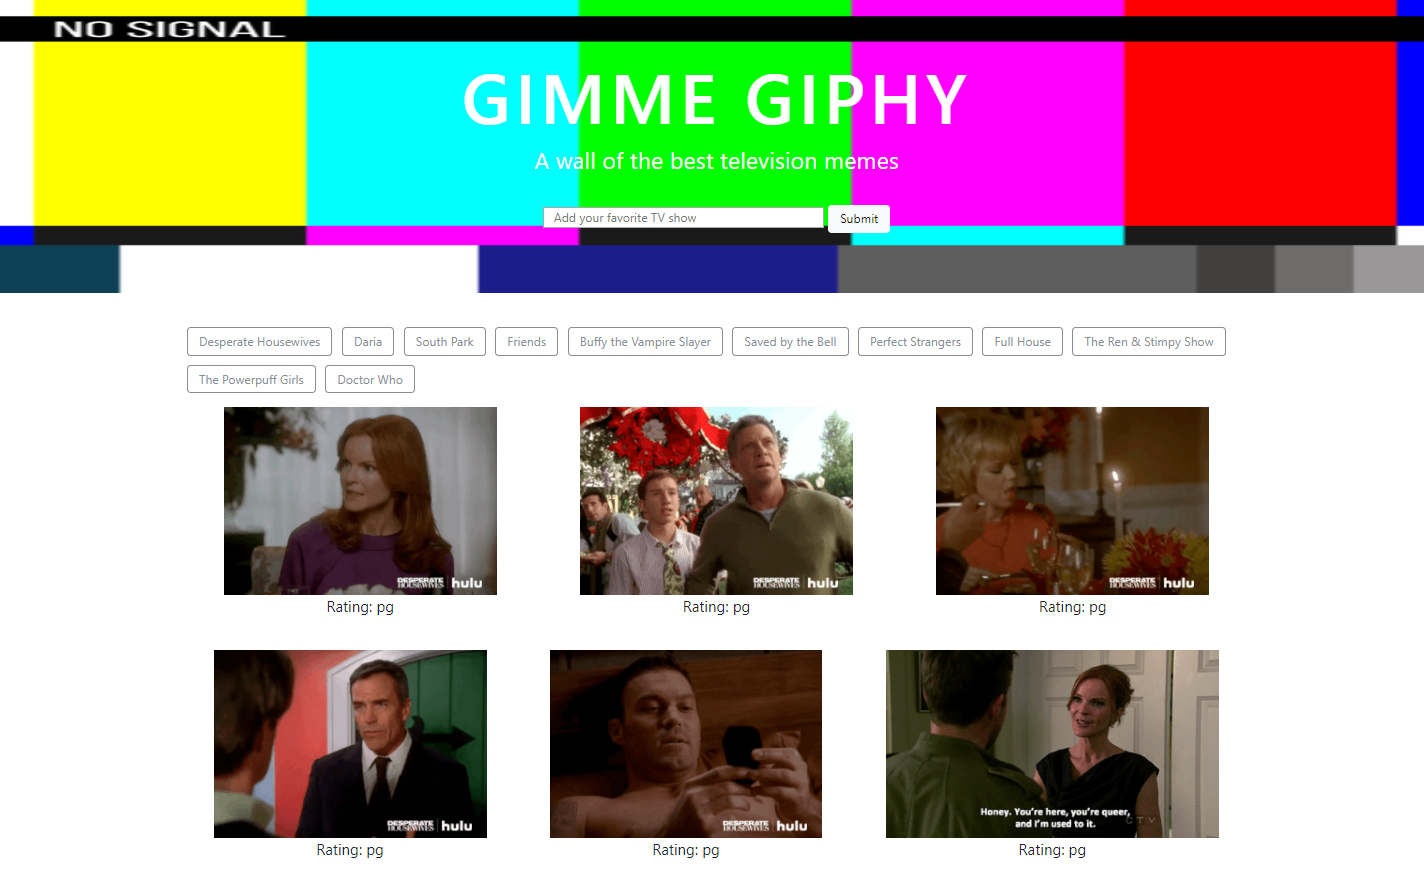
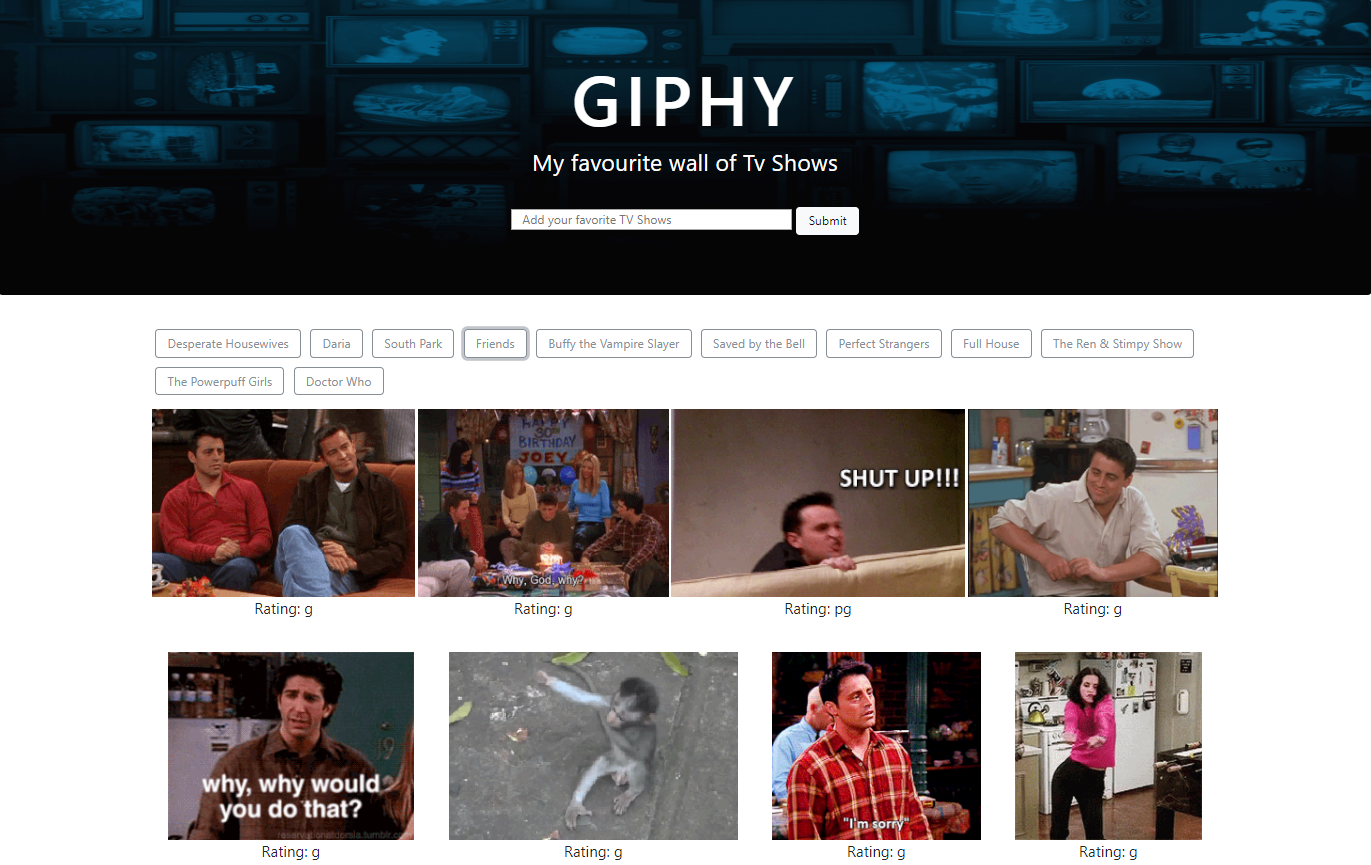
updated HTML

diff --git a/assets/javascript/app.js b/assets/javascript/app.js
@@ -3,7 +3,7 @@ var tvShows = ["Desperate Housewives", "Daria", "South Park", "Friends", "Buffy 
 
 // function for displaying movie data, then deleting the movies-(6.2-WorkingMovieApp)
 function buttons() {
-	$("#buttonsArea").empty();
+	$(".buttonsArea").empty();
 
 // Looping through the array of tvShows-(6.2-WorkingMovieApp)
 for (var i = 0; i < tvShows.length; i++) {
@@ -12,7 +12,7 @@ for (var i = 0; i < tvShows.length; i++) {
 	button.addClass("btn btn-outline-secondary");
 	button.attr("id", "tv-btn");
 	button.attr("tv-title", tvShows[i]);
-	$("#buttonsArea").append(button);
+	$(".buttonsArea").append(button);
 	}
 }
 
@@ -53,11 +53,12 @@ function displayGifs() {
 	gifImage.attr("data-state", "still");
 
 	// Appending the line and animation to the gifDiv
-	gifDiv.append(p);
 	gifDiv.append(gifImage);
+	gifDiv.append(p);
+	
 
 	// Prepending the gifDiv to HTML
-	$("#mainArea").prepend(gifDiv);
+	$(".mainArea").prepend(gifDiv);
 		}
 	});
 	}

diff --git a/index.html b/index.html
@@ -15,15 +15,15 @@
 		<h1 class="text-center">GIPHY</h1>
 		<p class="header-text text-center">My favourite wall of Tv Shows</p>
 		<form class="tv-input text-center">
-			<input type="text" id="userInput" placeholder="Add your favorite TV show">
+			<input type="text" id="userInput" placeholder="Add your favorite TV Shows">
 		    <button type="submit" id="submit-btn" class="btn btn-light">Submit</button>
 		</form>
 	</header>
 
 	<div class="container">
-		<div class="row" id="buttonsArea"></div>
-		<div class="row" id="mainArea"></div>
-	</div>
+		<div class="row buttonsArea"></div>
+		<div class="row mainArea"></div>
+
 	
 	<script src="https://cdnjs.cloudflare.com/ajax/libs/jquery/3.2.1/jquery.min.js"></script>
 	<script type="text/javascript" src="assets/javascript/app.js"></script>

diff --git a/assets/css/style.css b/assets/css/style.css
@@ -1,6 +1,5 @@
 header {
-	background-image: url("../images/colorbars.png");
-	background-size: 100% 100%;
+	background-image: url("../images/background.png");
 	color: white;
 }
 
